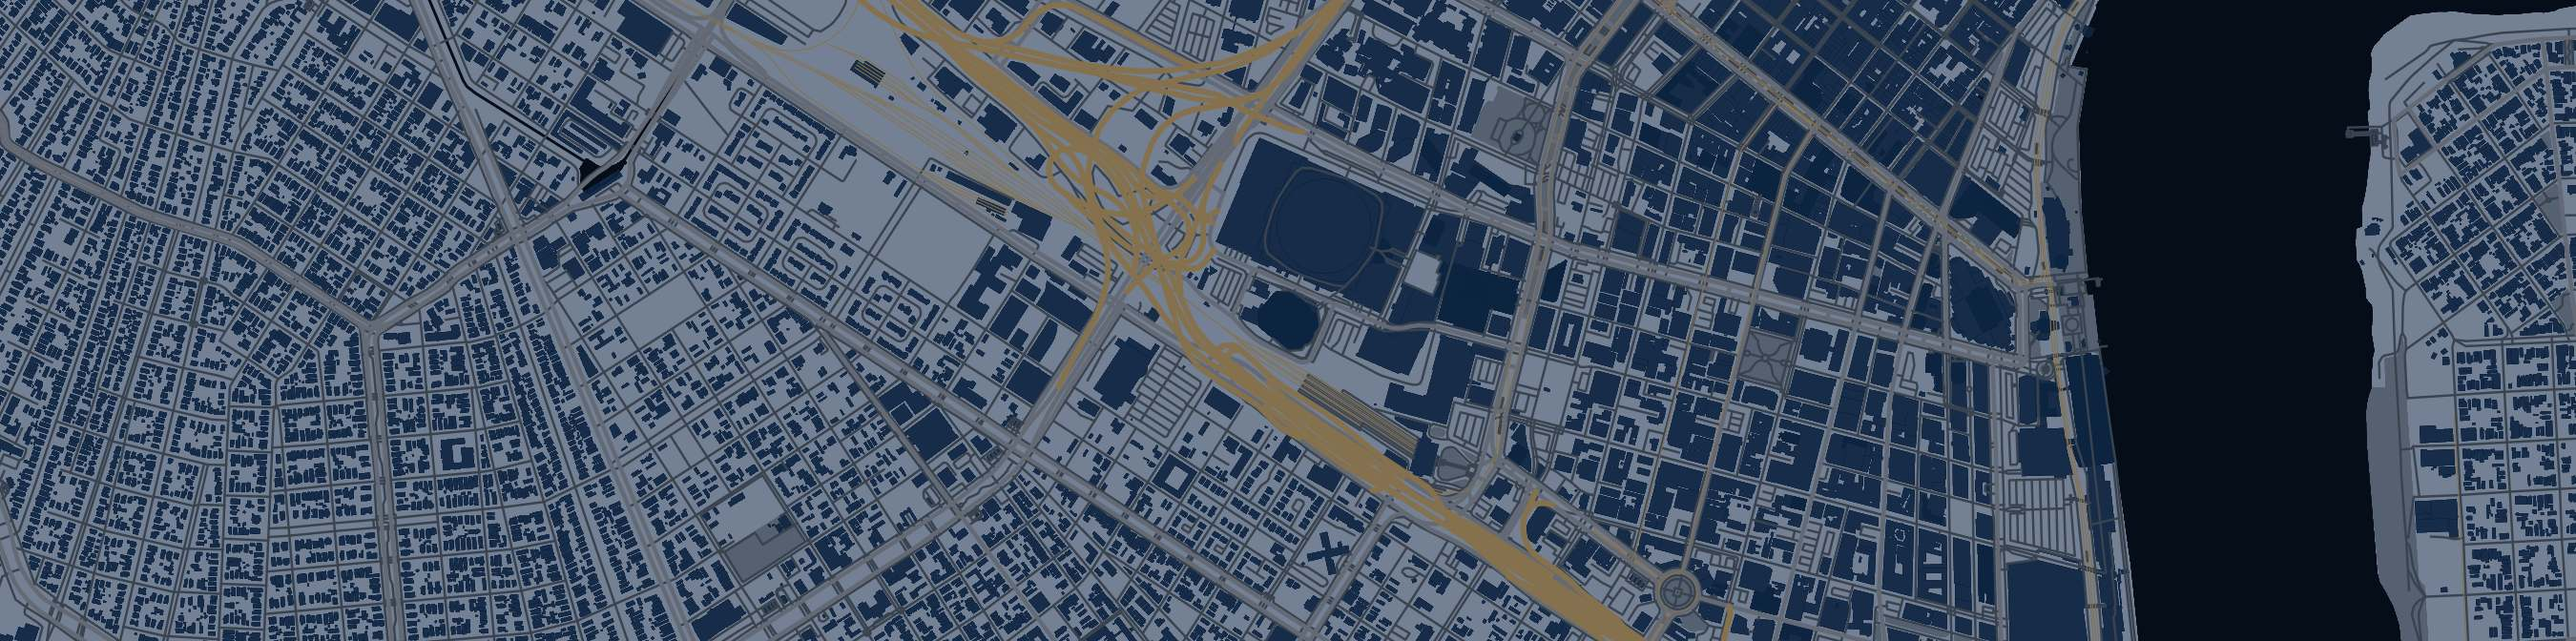
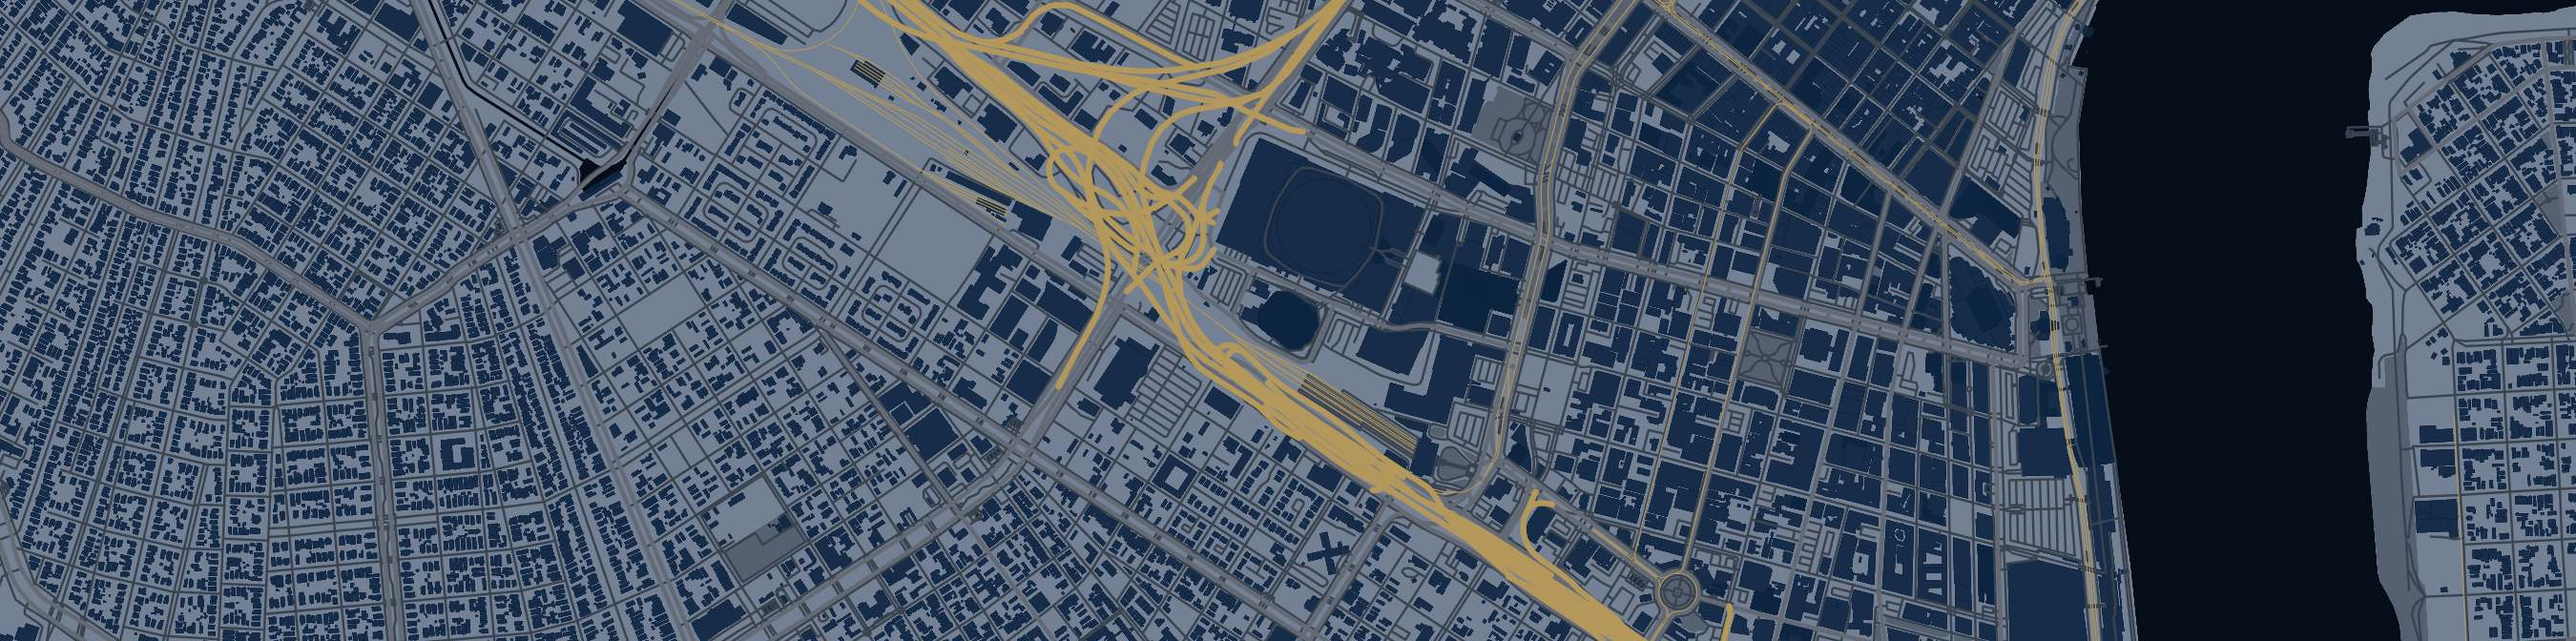
Pelicans: navy #0C2340 primary, gold #B4975A accent; white jersey numbers; map re-rendered

Changed region(s): [[0.3111, 0.0, 0.6533, 1.0], [0.6222, 0.0, 0.6533, 0.0312], [0.4044, 0.0, 0.4356, 0.0312]]

diff --git a/src/data/arenaMaps.js b/src/data/arenaMaps.js
@@ -58,7 +58,7 @@ export default {
   MIA: { src: mia, aspect, baseColor: '#3a0011', focal, pin: '#F9A01B' },
   MIL: { src: mil, aspect, baseColor: '#001b0a', focal, pin: '#EEE1C6' },
   MIN: { src: min, aspect, baseColor: '#0d2537', focal, pin: '#78BE20' },
-  NOP: { src: nop, aspect, baseColor: '#050d18', focal, pin: '#85714D' },
+  NOP: { src: nop, aspect, baseColor: '#050d18', focal, pin: '#B4975A' },
   NYK: { src: nyk, aspect, baseColor: '#002945', focal, pin: '#F58426' },
   OKC: { src: okc, aspect, baseColor: '#002e49', focal, pin: '#EF3B24' },
   ORL: { src: orl, aspect, baseColor: '#002d49', focal, pin: '#C4CED4' },
